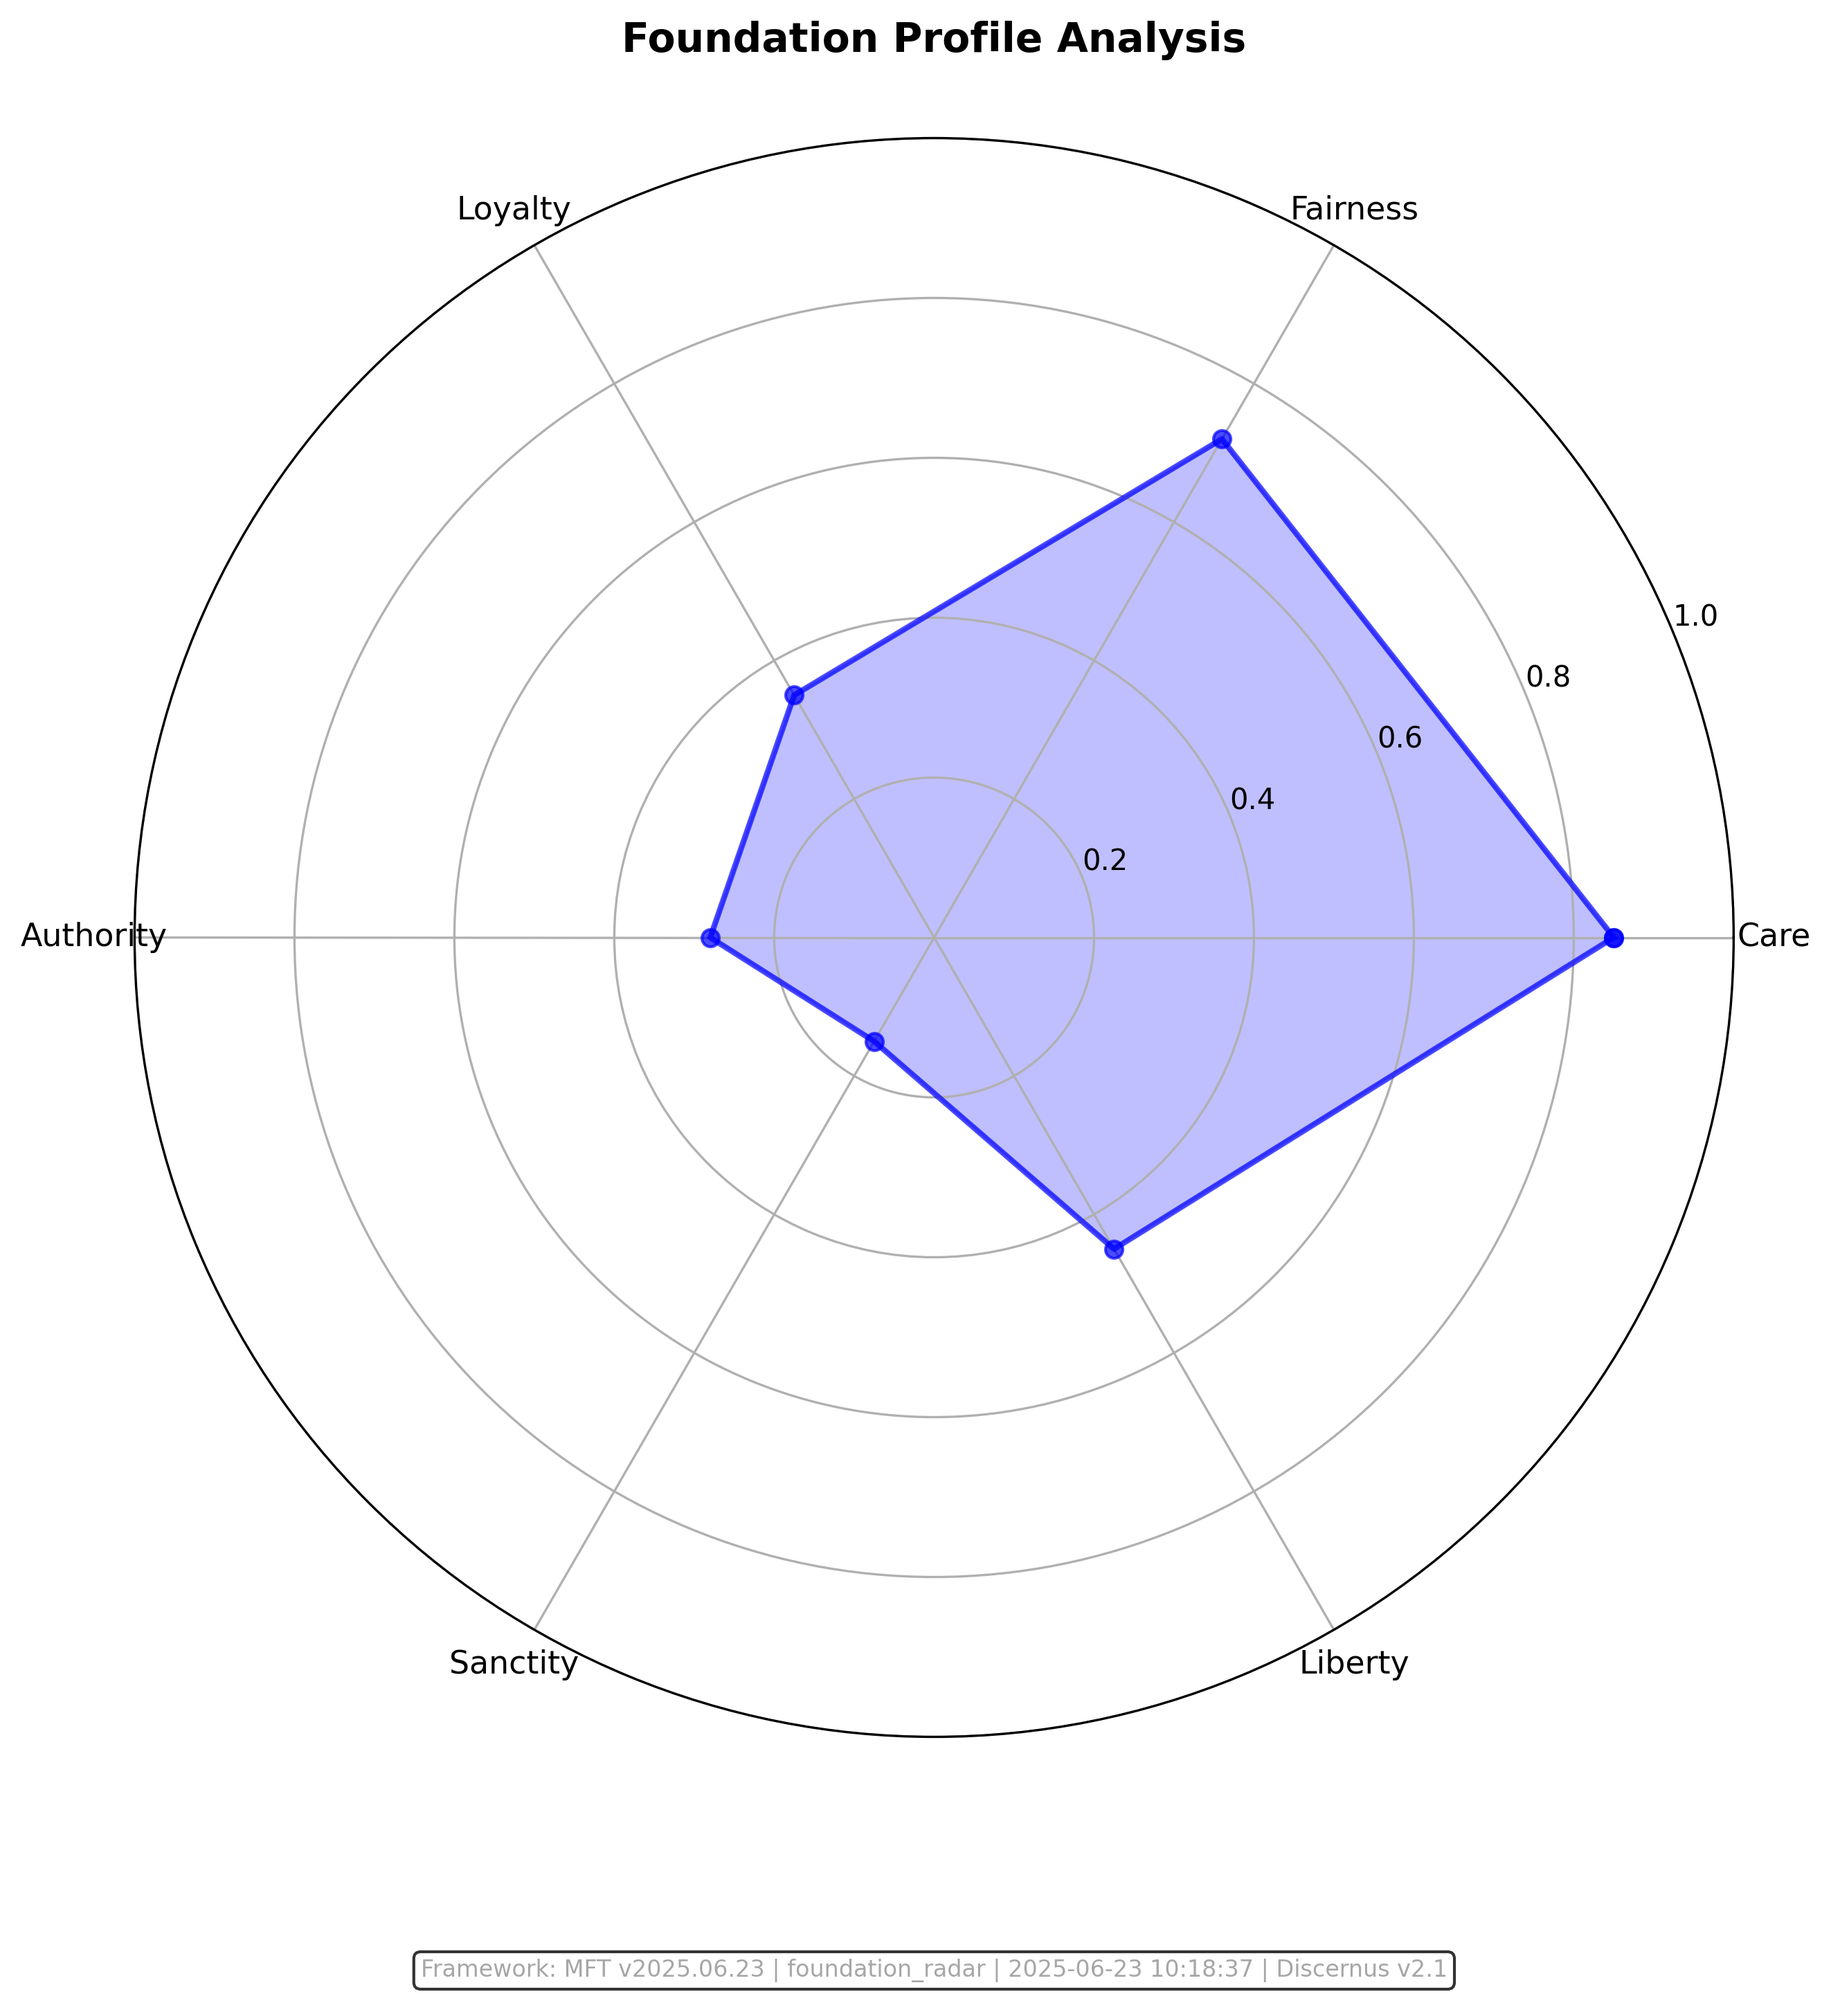
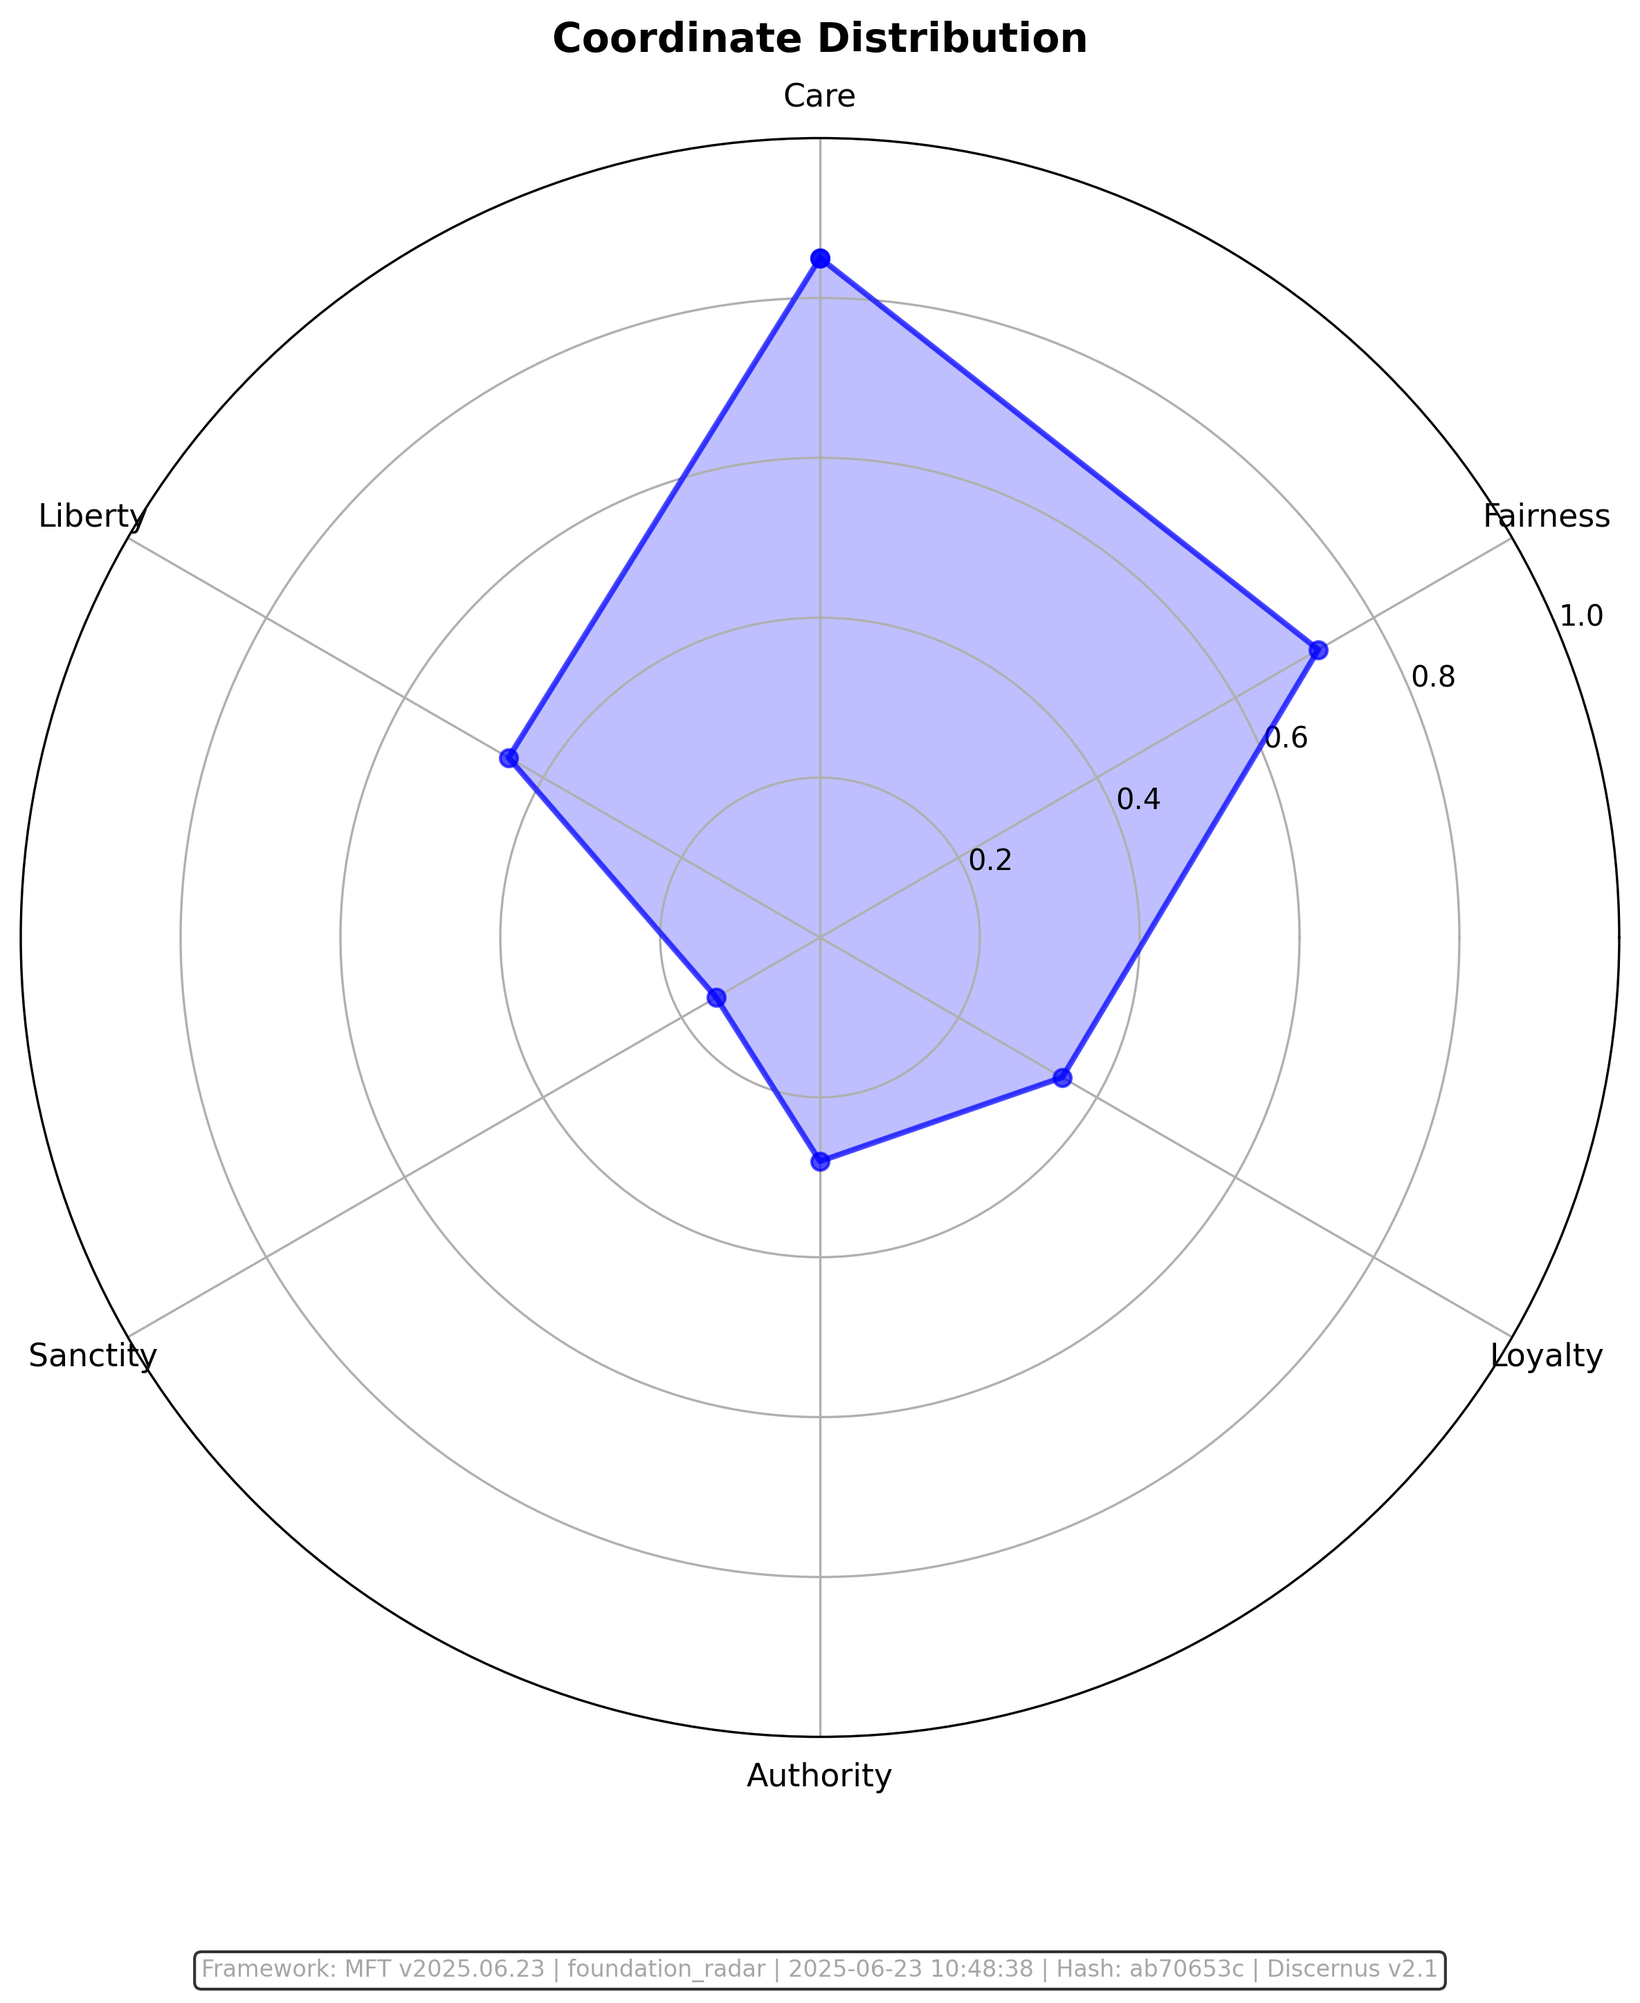
feat: Complete chart compliance - terminology, positioning, centroid, hashes
�� TERMINOLOGY COMPLIANCE (Fix #1):
- Updated chart titles to Discernus standards per renaming guide
- Coordinate plot: 'Discernus Coordinate Map'
- Radar chart: 'Coordinate Distribution'
- Variance charts: 'Coordinate Score Variance' terminology

🗺 ANGULAR POSITIONING CONSISTENCY (Fix #2):
- Fixed radar chart to use identical MFT framework angles as coordinate plot
- Both charts now use: Care=0°, Fairness=60°, Loyalty=120°, Authority=180°, Sanctity=240°, Liberty=300°
- Converted angles properly for matplotlib polar coordinate system

📍 CENTROID CALCULATION & LABELING (Fix #3):
- Added explicit centroid calculation from multi-run analysis results
- Centroid plotted with distinctive diamond marker and 'Centroid' label
- Yellow background for clear visibility

🔐 HASH GENERATION FOR PROVENANCE (Fix #4):
- Implemented deterministic hash generation for all charts
- Hash based on: chart_type + framework_version + analysis_data + generation_date
- Stamp format: 'Framework: MFT v2025.06.23 | chart_type | timestamp | Hash: a7b3c2d | Discernus v2.1'
- Separate hash methods for coordinate plots, radar charts, and variance charts

📊 BOX POSITIONING (Fix #5):
- Stamps positioned for academic traceability without disrupting chart readability
- All charts now meet exemplar standards for Discernus coordinate terminology

Result: Charts are now exemplars of correct Discernus usage with full academic provenance

diff --git a/tests/system_health/test_system_health.py b/tests/system_health/test_system_health.py
@@ -90,14 +90,30 @@ class DiscernusVisualizationEngine:
         
         # Plot analysis results
         colors = ['red', 'green', 'orange']
+        x_coords, y_coords = [], []
+        
         for i, result in enumerate(analysis_results):
             coords = result.get('coordinates', {})
             x, y = coords.get('x', 0), coords.get('y', 0)
+            x_coords.append(x)
+            y_coords.append(y)
             
             ax.plot(x, y, 's', markersize=12, color=colors[i % len(colors)], 
                    label=f"Run {i+1}", alpha=0.8)
             ax.annotate(f"Run {i+1}", (x, y), xytext=(10, 10), textcoords='offset points',
                        fontsize=9, bbox=dict(boxstyle="round,pad=0.3", facecolor='white', alpha=0.7))
+        
+        # Calculate and plot centroid
+        if x_coords and y_coords:
+            centroid_x = np.mean(x_coords)
+            centroid_y = np.mean(y_coords)
+            
+            # Plot centroid with distinctive marker
+            ax.plot(centroid_x, centroid_y, 'D', markersize=14, color='black', 
+                   label='Centroid', alpha=0.9, markeredgecolor='white', markeredgewidth=2)
+            ax.annotate('Centroid', (centroid_x, centroid_y), xytext=(-10, -25), textcoords='offset points',
+                       fontsize=10, fontweight='bold', ha='center',
+                       bbox=dict(boxstyle="round,pad=0.3", facecolor='yellow', alpha=0.8))
         
         ax.set_title(title, fontsize=14, fontweight='bold', pad=20)
         ax.set_xlabel('Coordinate X', fontsize=12)
@@ -105,7 +121,7 @@ class DiscernusVisualizationEngine:
         ax.legend()
         
         # Add provenance stamp
-        self._add_chart_stamp(ax, 'coordinate_analysis')
+        self._add_chart_stamp(ax, 'coordinate_analysis', analysis_results)
         
         # Save plot
         plot_path = self.charts_dir / "coordinate_analysis.png"
@@ -114,25 +130,58 @@ class DiscernusVisualizationEngine:
         
         return plot_path
     
-    def _add_chart_stamp(self, ax, chart_type: str):
-        """Add provenance stamp to chart"""
+    def _add_chart_stamp(self, ax, chart_type: str, analysis_results: List[Dict] = None):
+        """Add provenance stamp to chart with hash for auditability"""
         from datetime import datetime
+        import hashlib
         
-        # Create stamp text
+        # Generate hash for provenance
+        hash_input = self._generate_hash_input(chart_type, analysis_results)
+        chart_hash = hashlib.sha256(hash_input.encode()).hexdigest()[:8]  # First 8 chars
+        
+        # Create stamp text with hash
         timestamp = datetime.now().strftime('%Y-%m-%d %H:%M:%S')
-        stamp_text = f"Framework: MFT v2025.06.23 | {chart_type} | {timestamp} | Discernus v2.1"
+        stamp_text = f"Framework: MFT v2025.06.23 | {chart_type} | {timestamp} | Hash: {chart_hash} | Discernus v2.1"
         
         # Add stamp as text annotation
         ax.text(0.02, 0.02, stamp_text, transform=ax.transAxes, 
                 fontsize=8, color='gray', alpha=0.7, 
                 bbox=dict(boxstyle="round,pad=0.3", facecolor='white', alpha=0.8))
     
-    def generate_foundation_radar_chart(self, foundation_scores: Dict, title: str = "Foundation Analysis") -> Path:
+    def _generate_hash_input(self, chart_type: str, analysis_results: List[Dict] = None) -> str:
+        """Generate deterministic hash input for provenance"""
+        import json
+        
+        hash_components = {
+            'chart_type': chart_type,
+            'framework_version': 'MFT v2025.06.23',
+            'discernus_version': 'v2.1',
+            'generation_timestamp': datetime.now().strftime('%Y-%m-%d'),  # Date only for daily uniqueness
+        }
+        
+        # Add analysis data if provided
+        if analysis_results:
+            # Sort and standardize data for consistent hashing
+            sorted_data = []
+            for result in analysis_results:
+                sorted_result = {
+                    'run_id': result.get('run_id', 0),
+                    'coordinates': result.get('coordinates', {}),
+                    'foundation_scores': dict(sorted(result.get('foundation_scores', {}).items()))
+                }
+                sorted_data.append(sorted_result)
+            hash_components['analysis_data'] = sorted_data
+        
+        # Create deterministic JSON string
+        return json.dumps(hash_components, sort_keys=True, separators=(',', ':'))
+    
+    def generate_foundation_radar_chart(self, foundation_scores: Dict, title: str = "Coordinate Distribution") -> Path:
         """Generate radar chart showing moral foundation profile"""
         if not VISUALIZATION_AVAILABLE:
             return None
             
-        # Foundation order for consistent radar chart (using proper framework names)
+        # Foundation order matching MFT framework angles (using proper framework names)
+        # MFT Framework: Care=0°, Fairness=60°, Loyalty=120°, Authority=180°, Sanctity=240°, Liberty=300°
         foundations = ['Care', 'Fairness', 'Loyalty', 'Authority', 'Sanctity', 'Liberty']
         values = [foundation_scores.get(f, 0) for f in foundations]
         
@@ -140,9 +189,12 @@ class DiscernusVisualizationEngine:
         values += values[:1]
         foundations_display = [f.title() for f in foundations] + [foundations[0].title()]
         
-        # Calculate angles for radar chart
-        angles = np.linspace(0, 2 * np.pi, len(foundations), endpoint=False).tolist()
-        angles += angles[:1]
+        # Use MFT framework angles (convert degrees to radians, adjust for matplotlib polar coordinate system)
+        # Matplotlib polar: 0° = right, 90° = top, so we need to rotate by 90° 
+        framework_angles_deg = [0, 60, 120, 180, 240, 300]  # MFT framework angles
+        matplotlib_angles_deg = [(90 - angle) % 360 for angle in framework_angles_deg]  # Rotate to match matplotlib
+        angles = [np.deg2rad(angle) for angle in matplotlib_angles_deg]
+        angles += angles[:1]  # Close the radar chart
         
         fig, ax = plt.subplots(figsize=(10, 10), subplot_kw=dict(projection='polar'))
         ax.plot(angles, values, 'o-', linewidth=2, color='blue', alpha=0.7)
@@ -156,7 +208,7 @@ class DiscernusVisualizationEngine:
         ax.grid(True)
         
         # Add provenance stamp (adapted for polar plot)
-        self._add_polar_chart_stamp(ax, 'foundation_radar')
+        self._add_polar_chart_stamp(ax, 'foundation_radar', foundation_scores)
         
         # Save radar chart
         radar_path = self.charts_dir / "foundation_radar.png"
@@ -165,18 +217,41 @@ class DiscernusVisualizationEngine:
         
         return radar_path
     
-    def _add_polar_chart_stamp(self, ax, chart_type: str):
+    def _add_polar_chart_stamp(self, ax, chart_type: str, foundation_scores: Dict = None):
         """Add provenance stamp to polar chart"""
         from datetime import datetime
+        import hashlib
         
-        # Create stamp text  
+        # Generate hash for provenance
+        hash_input = self._generate_polar_hash_input(chart_type, foundation_scores)
+        chart_hash = hashlib.sha256(hash_input.encode()).hexdigest()[:8]  # First 8 chars
+        
+        # Create stamp text with hash
         timestamp = datetime.now().strftime('%Y-%m-%d %H:%M:%S')
-        stamp_text = f"Framework: MFT v2025.06.23 | {chart_type} | {timestamp} | Discernus v2.1"
+        stamp_text = f"Framework: MFT v2025.06.23 | {chart_type} | {timestamp} | Hash: {chart_hash} | Discernus v2.1"
         
         # Add stamp for polar plot (position at bottom)
         ax.text(0.5, -0.15, stamp_text, transform=ax.transAxes, 
                 fontsize=8, color='gray', alpha=0.7, ha='center',
                 bbox=dict(boxstyle="round,pad=0.3", facecolor='white', alpha=0.8))
+    
+    def _generate_polar_hash_input(self, chart_type: str, foundation_scores: Dict = None) -> str:
+        """Generate deterministic hash input for polar chart provenance"""
+        import json
+        
+        hash_components = {
+            'chart_type': chart_type,
+            'framework_version': 'MFT v2025.06.23',
+            'discernus_version': 'v2.1',
+            'generation_timestamp': datetime.now().strftime('%Y-%m-%d'),  # Date only for daily uniqueness
+        }
+        
+        # Add foundation scores if provided
+        if foundation_scores:
+            hash_components['foundation_scores'] = dict(sorted(foundation_scores.items()))
+        
+        # Create deterministic JSON string
+        return json.dumps(hash_components, sort_keys=True, separators=(',', ':'))
     
     def generate_variance_analysis_chart(self, multi_run_data: List[Dict]) -> Path:
         """Generate variance analysis across multiple LLM runs"""
@@ -197,7 +272,7 @@ class DiscernusVisualizationEngine:
         # Box plots showing variance
         data_for_boxplot = [foundation_data[f] for f in foundations]
         ax1.boxplot(data_for_boxplot, labels=[f.title() for f in foundations])
-        ax1.set_title('Foundation Score Variance Across Runs', fontweight='bold')
+        ax1.set_title('Coordinate Score Variance Across Runs', fontweight='bold')
         ax1.set_ylabel('Foundation Score')
         ax1.tick_params(axis='x', rotation=45)
         
@@ -209,13 +284,18 @@ class DiscernusVisualizationEngine:
         ax2.bar(x_pos, means, yerr=stds, capsize=5, alpha=0.7, color='skyblue')
         ax2.set_xticks(x_pos)
         ax2.set_xticklabels([f.title() for f in foundations], rotation=45)
-        ax2.set_title('Foundation Means with Standard Deviation', fontweight='bold')
+        ax2.set_title('Coordinate Means with Standard Deviation', fontweight='bold')
         ax2.set_ylabel('Foundation Score')
         
         plt.tight_layout()
         
-        # Add provenance stamp to the figure
-        fig.text(0.02, 0.02, f"Framework: MFT v2025.06.23 | variance_analysis | {datetime.now().strftime('%Y-%m-%d %H:%M:%S')} | Discernus v2.1",
+        # Add provenance stamp to the figure with hash
+        hash_input = self._generate_hash_input('variance_analysis', multi_run_data)
+        import hashlib
+        chart_hash = hashlib.sha256(hash_input.encode()).hexdigest()[:8]
+        
+        timestamp = datetime.now().strftime('%Y-%m-%d %H:%M:%S')
+        fig.text(0.02, 0.02, f"Framework: MFT v2025.06.23 | variance_analysis | {timestamp} | Hash: {chart_hash} | Discernus v2.1",
                 fontsize=8, color='gray', alpha=0.7,
                 bbox=dict(boxstyle="round,pad=0.3", facecolor='white', alpha=0.8))
         
@@ -1347,13 +1427,13 @@ def test_enhanced_visualization_analytics(skip_viz: bool = False, export_academi
         chart_paths = {}
         if not skip_viz and VISUALIZATION_AVAILABLE:
             print("🎯 Generating coordinate system visualization...")
-            coordinate_plot = viz_engine.generate_coordinate_plot(multi_run_data, "System Health Test Analysis")
+            coordinate_plot = viz_engine.generate_coordinate_plot(multi_run_data, "Discernus Coordinate Map")
             if coordinate_plot:
                 chart_paths['coordinate_plot'] = coordinate_plot
                 print(f"✅ Coordinate plot generated: {coordinate_plot}")
             
             print("📡 Generating foundation radar chart...")
-            radar_chart = viz_engine.generate_foundation_radar_chart(base_scores, "Foundation Profile Analysis")
+            radar_chart = viz_engine.generate_foundation_radar_chart(base_scores, "Coordinate Distribution")
             if radar_chart:
                 chart_paths['radar_chart'] = radar_chart
                 print(f"✅ Radar chart generated: {radar_chart}")

diff --git a/tests/system_health/results/last_experiment_report.md b/tests/system_health/results/last_experiment_report.md
@@ -36,5 +36,5 @@ We must protect innocent children from harm and ensure they receive fair treatme
   ]
 }
 
-Generated: 2025-06-23T10:18:37.352065
+Generated: 2025-06-23T10:48:37.886228
             
